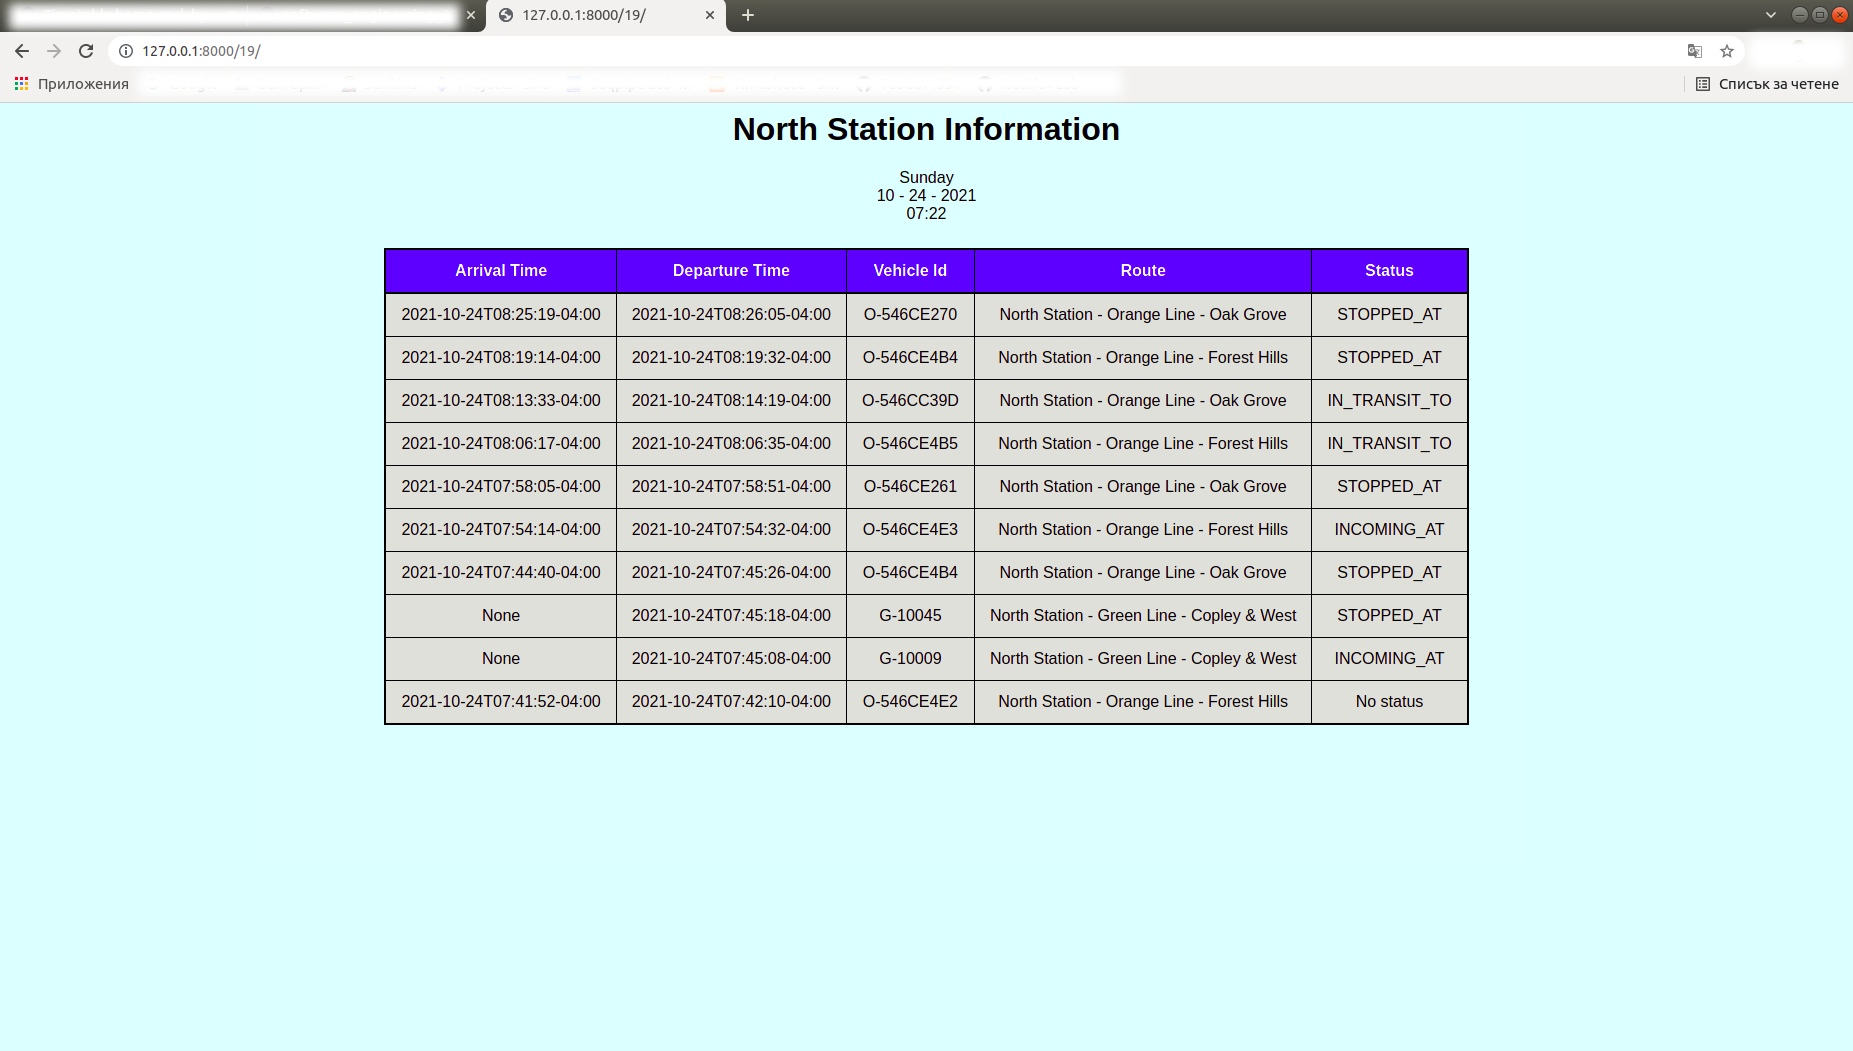
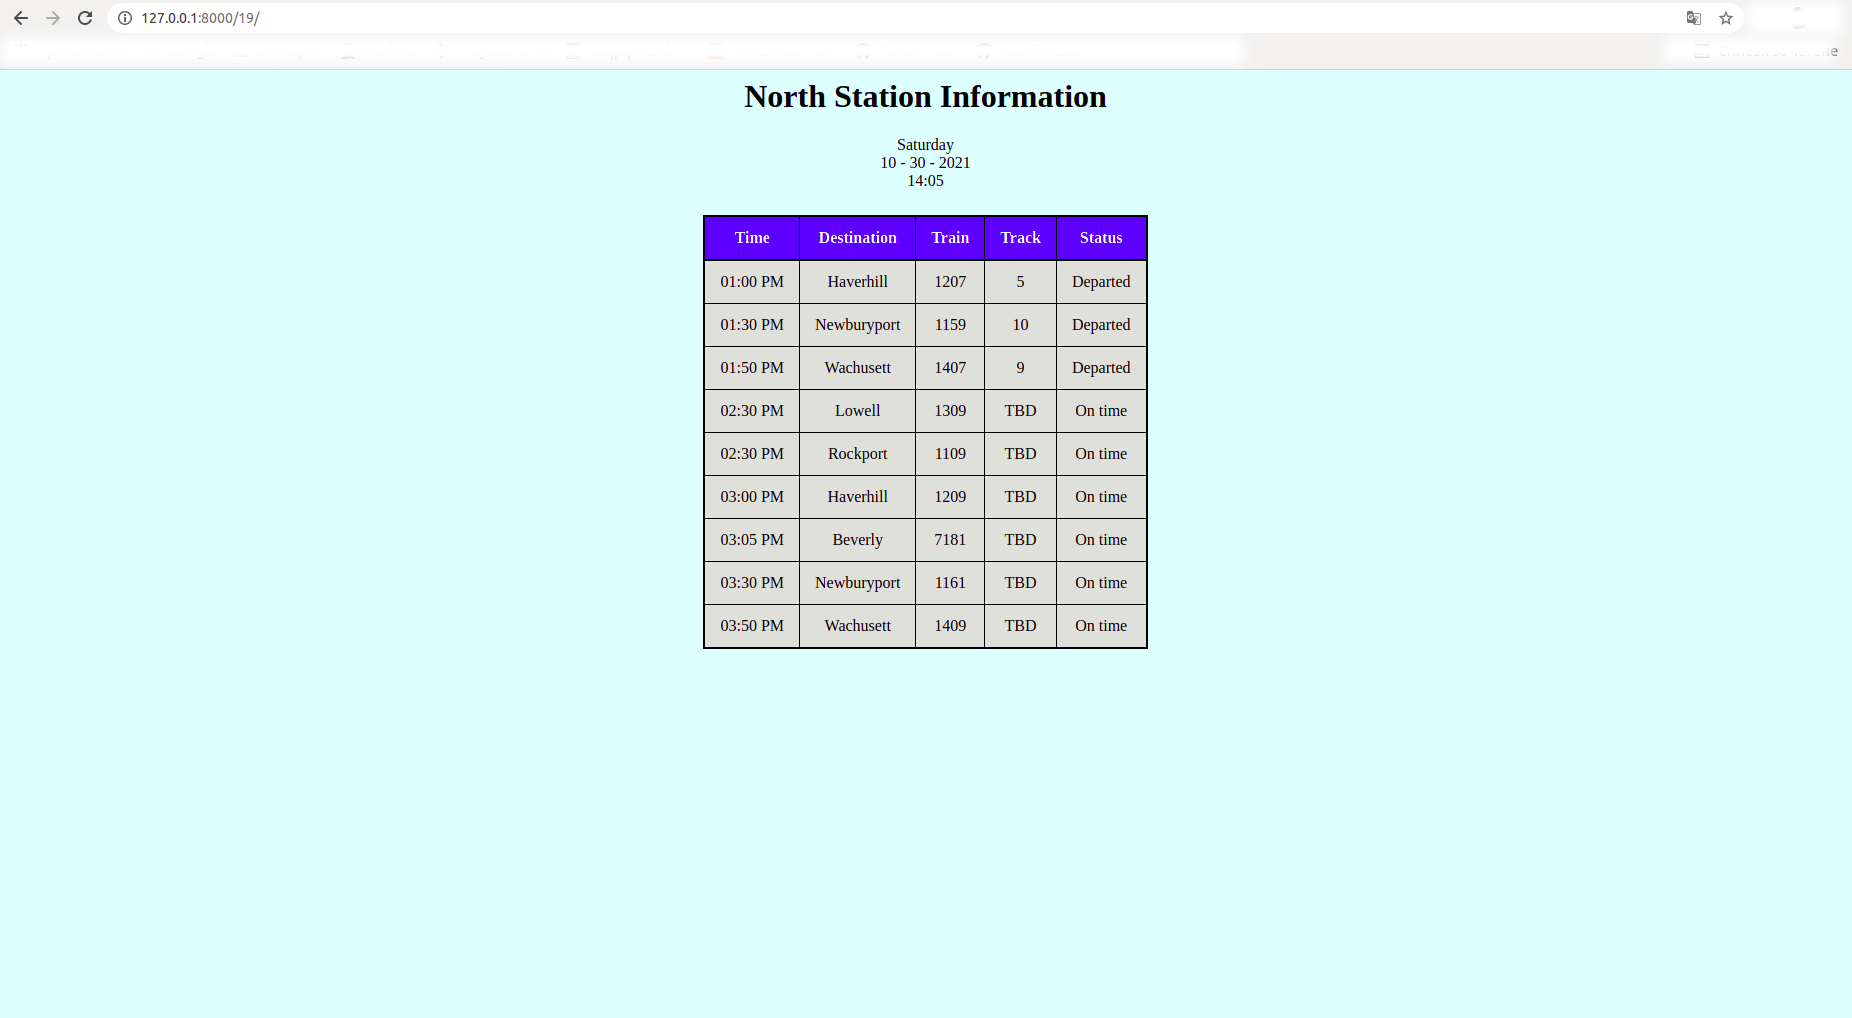
"Fixing Homework"

Changed region(s): [[0.0, 0.0, 0.8002, 0.7004], [0.3693, 0.0, 1.0, 0.0305], [0.8925, 0.0609, 1.0, 0.0914]]

diff --git a/homework_02/teodor_dishanski_19/templates/train_board.html b/homework_02/teodor_dishanski_19/templates/train_board.html
@@ -21,31 +21,45 @@
 <table class="train_board">
     <thead>
         <tr style="background-color: blue;">
-            <th>Arrival Time</th>
-            <th>Departure Time</th>
-            <th>Vehicle Id</th>
-            <th>Route</th>
+            <th>Time</th>
+            <th>Destination</th>
+            <th>Train</th>
+            <th>Track</th>
             <th>Status</th>
         </tr>
     </thead>
 
     <tbody>
         <tr>
-            {% for d in data.data %}
+            {% for unit in data.data %}
             <tr>
-                <td>{{ d.attributes.arrival_time }}</td>
-                <td>{{ d.attributes.departure_time }}</td>
-                <td>{{ d.relationships.vehicle.data.id }}</td>
-
-                {% for route in routes %}
+                {% for departure_time in departure_times %}
                     {% if forloop.counter == forloop.parentloop.counter %}
-                        <td>{{ route }}</td>
+                        <td>{{ departure_time }}</td>
+                    {% endif %}
+                {% endfor %}
+
+                {% for destination in destinations %}
+                    {% if forloop.counter == forloop.parentloop.counter %}
+                        <td>{{ destination }}</td>
+                    {% endif %}
+                {% endfor %}
+
+                {% for train in trains %}
+                    {% if forloop.counter == forloop.parentloop.counter %}
+                        <td>{{ train }}</td>
+                    {% endif %}
+                {% endfor %}
+
+                {% for track in tracks %}
+                    {% if forloop.counter == forloop.parentloop.counter %}
+                        <td>{{ track }}</td>
                     {% endif %}
                 {% endfor %}
 
                 {% for status in statuses %}
                     {% if forloop.counter == forloop.parentloop.counter %}
-                        <td>{{ status }}</td>
+                    <td>{{ status }}</td>
                     {% endif %}
                 {% endfor %}
             </tr>

diff --git a/homework_02/teodor_dishanski_19/static/style.css b/homework_02/teodor_dishanski_19/static/style.css
@@ -1,6 +1,6 @@
 body {
     background: lightcyan;
-    font-family: "Arial, Helvetica", sans-serif;
+    font-family: "Times New Roman", Times, serif;
 }
 
 h1, .datetime {
@@ -17,7 +17,7 @@ h1, .datetime {
     margin-left: auto; 
     margin-right: auto;
     text-align: center;
-    font-family: 'Arial, Helvetica', sans-serif;
+    font-family: 'Times New Roman', Times, serif;
 }
 
 .train_board thead tr {

diff --git a/homework_02/teodor_dishanski_19/views.py b/homework_02/teodor_dishanski_19/views.py
@@ -3,56 +3,122 @@ from django.shortcuts import render
 from django.http import HttpResponse, response
 from django.http.response import JsonResponse
 
-from requests.models import ContentDecodingError
+from datetime import datetime as d_t
 
 import requests
 import datetime
-import json, pytz
+import pytz
 
 # Create your views here.
 
-def train_board(request):
-    #   To present the train station departure board, we should find the time in Massachusetts.
+def train_board(request) -> HttpResponse:
     current_time = datetime.datetime.now(pytz.timezone('America/New_York'))
 
-    #   We get the predictions API and convert them into a JSON object.
-    response = requests.get("https://api-v3.mbta.com/predictions?page%5Boffset%5D=0&page%5Blimit%5D=10&sort=-departure_time&filter%5Bstop%5D=place-north")
-    response_json_format = response.json()
+    params = {
+        'page[offset]': '0',                #   Offset on the number of trains.
+        'page[limit]': '10',                #   Maximum number of presented trains.
+        'sort': 'departure_time',           #   Sorting the trains by departure time.
+        'include': 'schedule,stop,trip',    #   Including schedule, stop and train information.
+        'filter[stop]': 'place-north',      #   Filterting the trains only on the current stop.
+        'filter[direction_id]': '0',        #   Getting only the trains that will departure.
+        'filter[route_type]': '2'           #   Getting only the trains by all the vehicles.
+    }
 
-    #   We will need 2 lists - 1 to store the routes and 1 to store the statuses of the vehicles.
-    routes_vehicles, statuses_vehicles = [], []
+    response = requests.get("https://api-v3.mbta.com/predictions", params=params).json()
 
-    #  Firstly, we make a loop through the response data to get the information about the routes of the vehicles.
-    #   We get the id of the stops from the relationships of every single prediction.
-    #   If we do not have any data for it, we store that there is no route.
-    for i in response_json_format['data']:
-        try:
-            route_vehicle = requests.get("https://api-v3.mbta.com/stops/" + i["relationships"]["stop"]["data"]["id"])
-            route_json_format = route_vehicle.json()["data"]["attributes"]["description"]
-            routes_vehicles.append(route_json_format)
-        except:
-            routes_vehicles.append("No route")
+    departure_times =   list()
+    destinations    =   list()
+    trains          =   list()
+    tracks          =   list()
+    statuses        =   list()
 
-    #  Secondly, we make a loop through the response data to get the information about the statuses of the vehicles.
-    #   We get the id of the vehicles from the relationships of every single prediction.
-    #   If we do not have any data for it, we store that there is no status.
-    for i in response_json_format['data']:
-        try:
-            status_vehicle = requests.get("https://api-v3.mbta.com/vehicles/" + i["relationships"]["vehicle"]["data"]["id"])
-            status_json_format = status_vehicle.json()["data"]["attributes"]["current_status"]
-            statuses_vehicles.append(status_json_format)
-        except:
-            statuses_vehicles.append("No status")
+    records    =   {}
+
+    if (response['included']):
+        #   We make a record in the dictionary by the id of the current record.
+
+        for record in response['included']:
+            records[record['id']] = record
+
+
+        for prediction in response['data']:
+            #   We get the data we need by matching the needed sections by their ids.
+            #   The last section (the departure time) we get by the attributes section of
+            #   the 'data' or by the schedule we have matched. We are sure there will
+            #   be trains, otherwise there will not be any matching, that is why
+            #   try / except block become needless in the loop.
+
+            prediction['schedule'] = records[prediction['relationships']['schedule']['data']['id']]
+            prediction['stop'] = records[prediction['relationships']['stop']['data']['id']]
+            prediction['trip'] = records[prediction['relationships']['trip']['data']['id']]
+            prediction['departure'] = prediction['attributes']['departure_time'] or prediction['schedule']['attributes']['departure_time']
+
+
+        for prediction in response['data']:
+            #   We append to the specific list the specific attribute we need.
+            #   The number of the track may be more specific because of the code / name
+            #   recognition. We decide this problem by getting the platform code
+            #   or the platform name if there is no still a decided code for the platform.
+
+            departure_times.append(prediction['departure'])
+            destinations.append(prediction['trip']['attributes']['headsign'])
+            trains.append(prediction['trip']['attributes']['name'])
+            tracks.append(prediction['stop']['attributes']['platform_code'] or prediction['stop']['attributes']['platform_name'])
+            statuses.append(prediction['attributes']['status'])
+
+
+        #   We change the format of all departure times.
+
+        for i in range(len(departure_times)):
+            departure_times[i] = departure_times[i][11:19]
+            departure_times[i] = d_t.strptime(departure_times[i], "%H:%M:%S").time()
+            departure_times[i] = departure_times[i].strftime("%I:%M %p")
+
+        #   We check if the track of the current train is with a number.
+        #   If it is not, this means it is still TBD (To Be Decided).
+
+        for i in range(len(tracks)):
+            if tracks[i] == "Commuter Rail":
+                tracks[i] = "TBD"
+
+
+        #   We sort the information of the trains by their departure times.
+        #   If we do not make the sort in all lists, we will get wrong order.
+
+        for i in range(0, len(departure_times)):
+            for j in range(i + 1, len(departure_times)):
+                if departure_times[i] > departure_times[j]:
+                    departure_time = departure_times[i]
+                    departure_times[i] = departure_times[j]
+                    departure_times[j] = departure_time
+
+                    destination = destinations[i]
+                    destinations[i] = destinations[j]
+                    destinations[j] = destination
+
+                    train = trains[i]
+                    trains[i] = trains[j]
+                    trains[j] = train
+
+                    track = tracks[i]
+                    tracks[i] = tracks[j]
+                    tracks[j] = track
+
+                    status = statuses[i]
+                    statuses[i] = statuses[j]
+                    statuses[j] = status
 
     context = {
         'day': current_time.strftime("%A"),
         'date': current_time.strftime("%m - %d - %Y"),
         'time': current_time.strftime("%H:%M"),
 
-        'data': response_json_format,
-        'routes': routes_vehicles,
-        'statuses': statuses_vehicles
+        'data': response,
+        'departure_times': departure_times,
+        'destinations': destinations,
+        'trains': trains,
+        'tracks': tracks,
+        'statuses': statuses
     }
 
     return render(request, "train_board.html", context)
-

diff --git a/homework_02/teodor_dishanski_19/README.md b/homework_02/teodor_dishanski_19/README.md
@@ -1,5 +1,7 @@
 # Installation Instructions
 
+### **Important**: *If I someone write his/her homework like me, I will write a complaint to Mrs. Stella Stefanova!*
+
 The new project can be created via the next command:
 
 ```
@@ -11,4 +13,3 @@ This command will create a new folder in the current project. This will be the n
 An example image of the development of the *Train Station Departure Board*:
 
 <img src="images/Example_Table.png">
-
